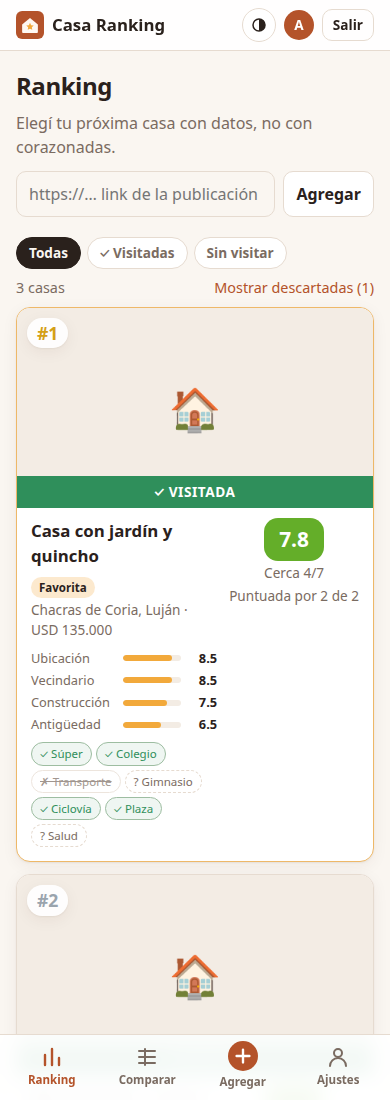
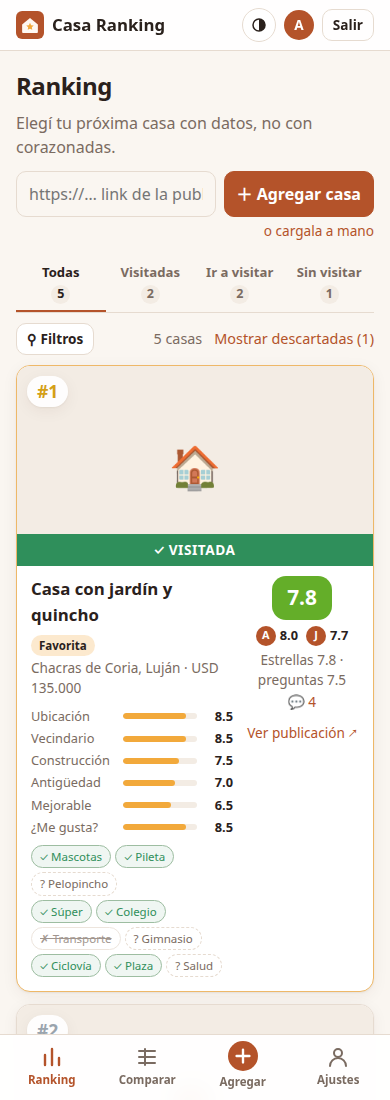
README: screenshots for v1.5 (tabs, per-person scores, comments, compare)

diff --git a/README.md b/README.md
@@ -48,7 +48,7 @@ together, but any number of people can rate.
 
 ![House detail](docs/house.png)
 
-<p align="center"><img src="docs/mobile.png" width="300" alt="Phone layout"> <img src="docs/dark.png" width="520" alt="Dark mode"></p>
+<p align="center"><img src="docs/mobile.png" width="300" alt="Phone layout"> <img src="docs/dark.png" width="520" alt="Compare view, dark mode"></p>
 
 ## Run it
 
